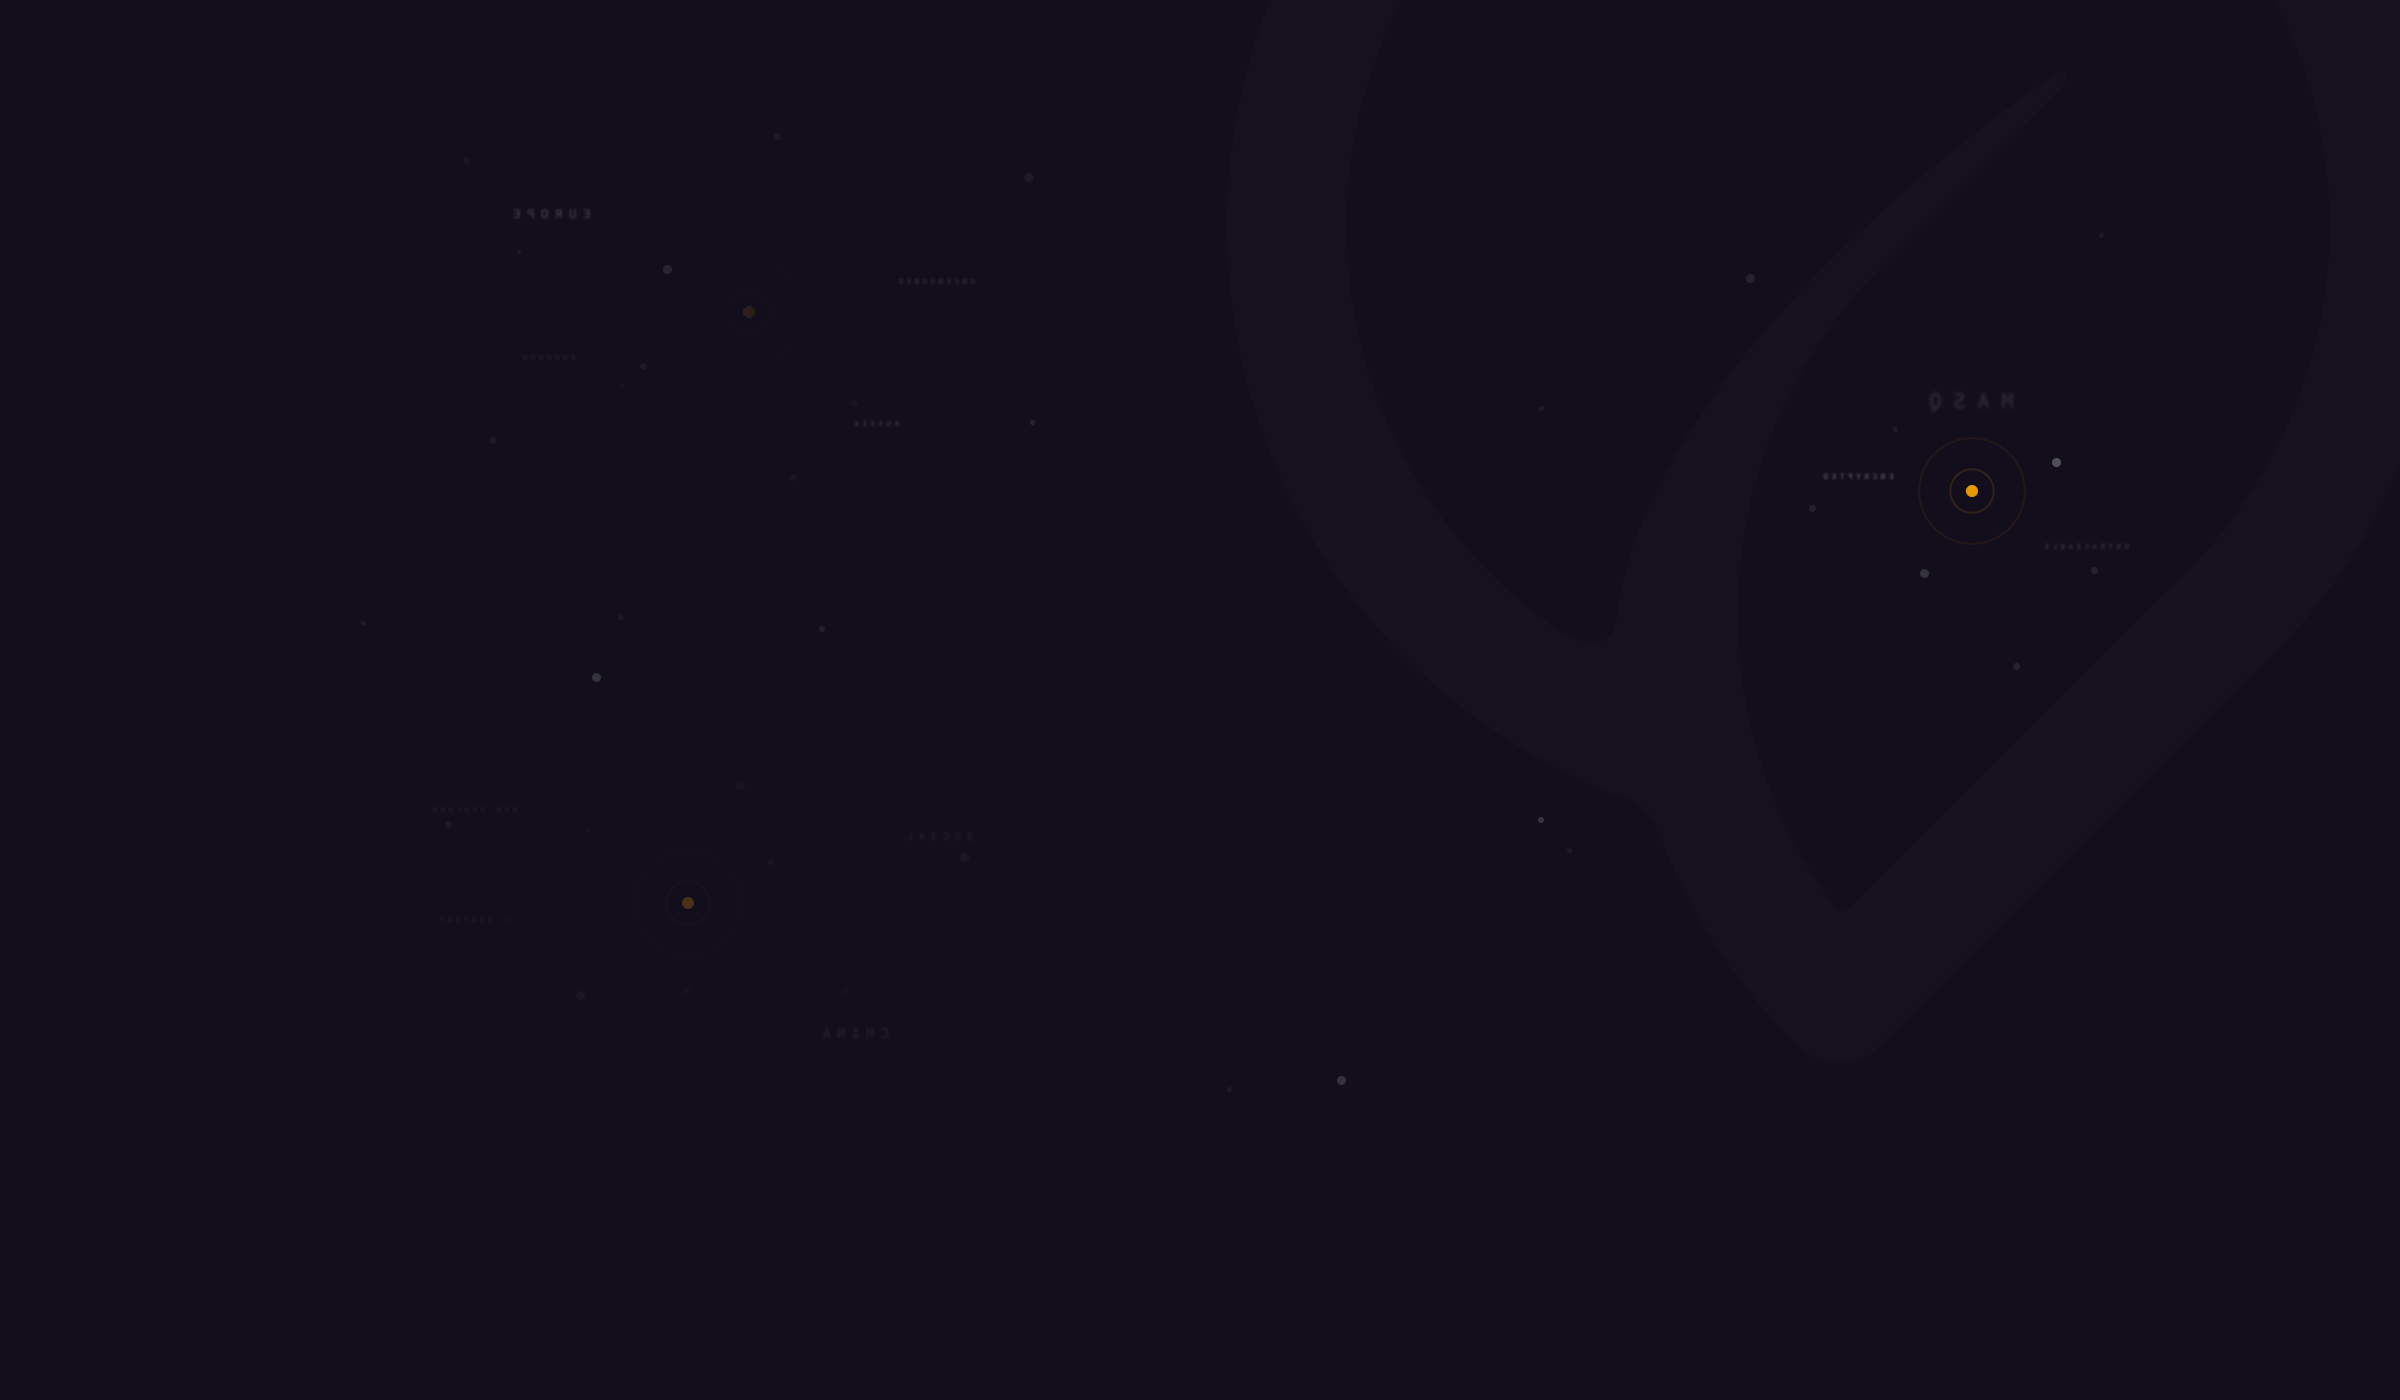
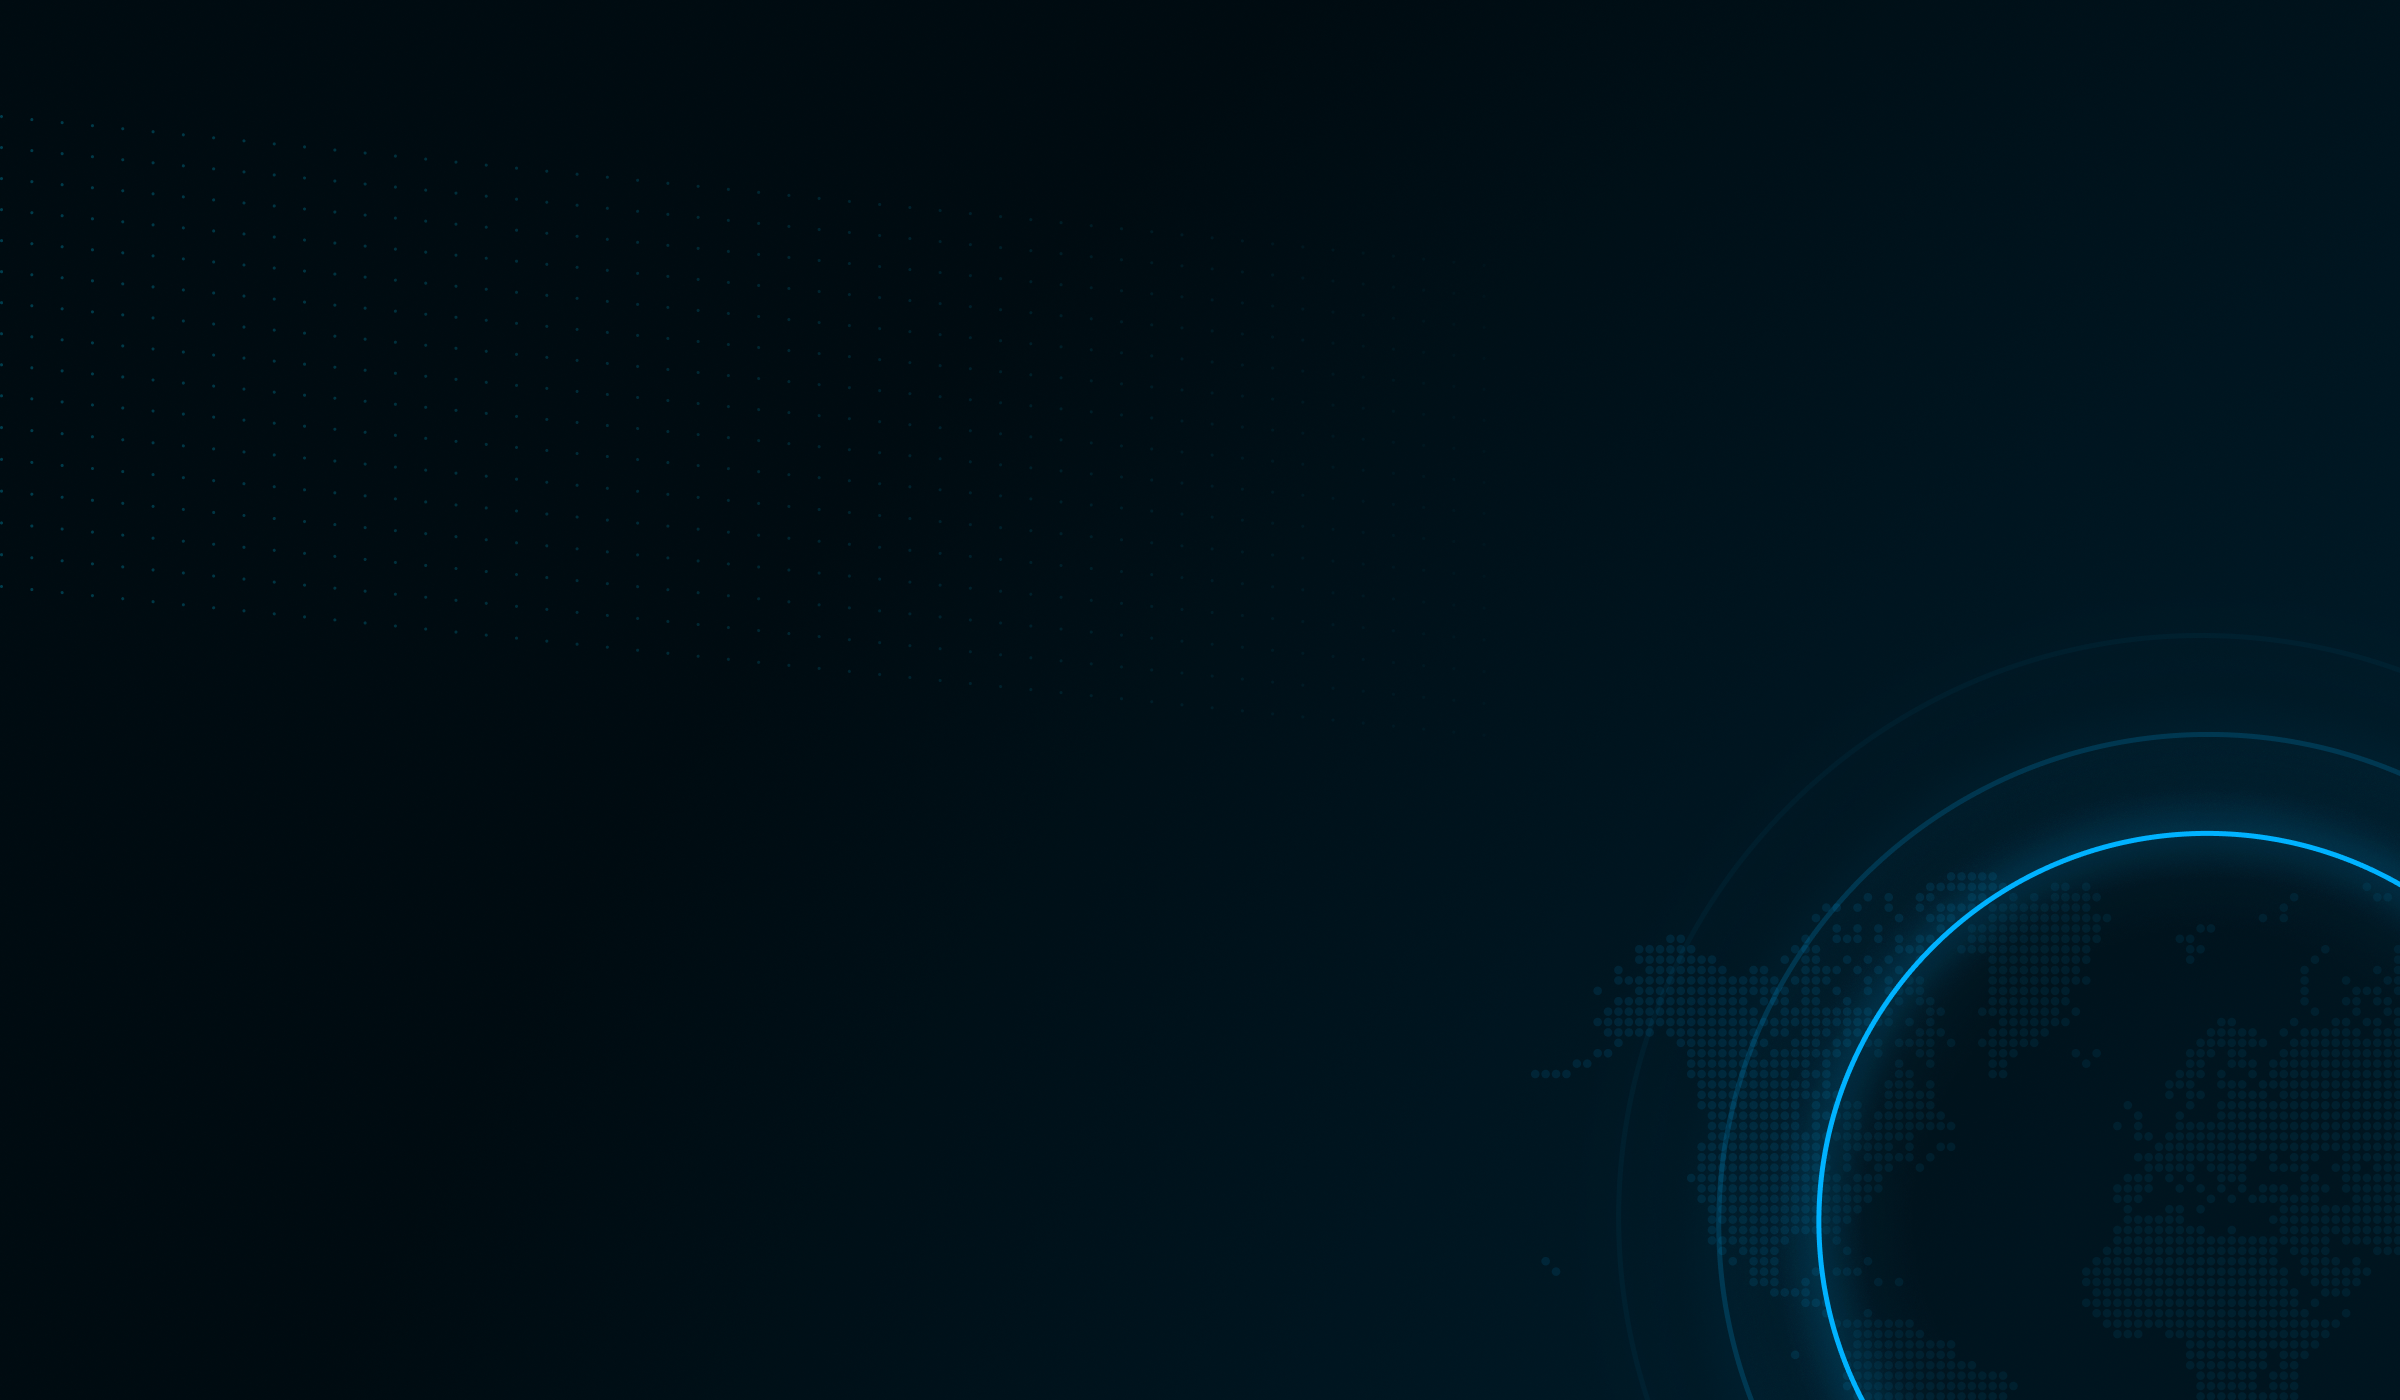
updated masq theme

diff --git a/src/theme/settings/masq.ts b/src/theme/settings/masq.ts
@@ -1,21 +1,21 @@
 export function masqTheme() {
-  const mainColor = '#bc8004'
-  const mainColorHover = '#97661b'
-  const mainButtonColor = '#6526c1'
-  const mainButtonColorHover = '#4f3a87'
-  const appBG = '#0c0812'
-  const bodyBGColor = '#120e1b'
-  const inputBGColor = '#181323'
-  const mainTextColor = '#EFEFEF'
+  const mainColor = '#00B2FF'
+  const mainColorHover = '#00A3FF'
+  const mainButtonColor = '#00B2FF'
+  const mainButtonColorHover = '#00A3FF'
+  const appBG = '#00334D'
+  const bodyBGColor = '#000b11'
+  const inputBGColor = '#000b11'
+  const mainTextColor = '#FAFAFA'
   const mainTextColorHover = '#c2bebc'
   const transparent = 'transparent'
-  const buttonBG = '#181323'
-  const buttonBGHover = '#6526c1'
-  const buttonSecondaryBG = '#260e4e'
-  const modalBG = '#191426'
-  const infoText = '#6526c1'
-  const infoBGHover = '#1b0a38'
-  const highLights = '#d68e20'
+  const buttonBG = '#00B2FF'
+  const buttonBGHover = '#00A3FF'
+  const buttonSecondaryBG = mainColorHover
+  const modalBG = bodyBGColor
+  const infoText = mainButtonColor
+  const infoBGHover = '#8fb8ca'
+  const highLights = '#00E0FF'
 
   return {
     //App
@@ -44,7 +44,7 @@ export function masqTheme() {
     buttonBG: mainColor,
     buttonTextColor: mainTextColor,
     buttonBGHover: mainColorHover,
-    buttonTextColorHover: mainTextColorHover,
+    buttonTextColorHover: mainTextColor,
     buttonBGActive: mainColor,
     buttonTextColorActive: mainTextColor,
     buttonBGActiveHover: mainColor,
@@ -63,15 +63,15 @@ export function masqTheme() {
     buttonSelectTextColorActive: mainTextColor,
     buttonSelectBGActiveHover: mainColor,
     buttonSelectTextColorActiveHover: mainTextColor,
-    buttonSecondaryBG: buttonSecondaryBG,
-    buttonSecondaryBorder: transparent,
-    buttonSecondaryTextColor: mainTextColor,
-    buttonSecondaryBGActive: mainColor,
-    buttonSecondaryBorderActive: mainColor,
-    buttonSecondaryTextColorActive: mainTextColor,
-    buttonSecondaryBGHover: mainColorHover,
+    buttonSecondaryBG: appBG,
+    buttonSecondaryBorder: mainColor,
+    buttonSecondaryTextColor: mainColor,
+    buttonSecondaryBGActive: appBG,
+    buttonSecondaryBorderActive: appBG,
+    buttonSecondaryTextColorActive: mainColor,
+    buttonSecondaryBGHover: appBG,
     buttonSecondaryBorderHover: mainColorHover,
-    buttonSecondaryTextColorHover: mainTextColorHover,
+    buttonSecondaryTextColorHover: mainColorHover,
     buttonOutlinedBorder: mainColor,
     buttonOutlinedTextColor: mainTextColor,
     buttonOutlinedBorderHover: mainColorHover,
@@ -94,7 +94,7 @@ export function masqTheme() {
     linkColorHover: mainColor,
     lineColor: '#5F656D',
     logo:
[2 lines of base64/hex data omitted]
 
     //Header
     headerBG: transparent,
@@ -133,7 +133,7 @@ export function masqTheme() {
     //Text
     textHighlight: highLights,
     textPrimary: mainTextColor,
-    textSecondary: 'rgba(178,178,178,0.5)',
+    textSecondary: '#8fb8ca',
     textTertiary: '#bfbfbf',
     textDisabled: '#565A69',
 

diff --git a/src/components/Gas/index.tsx b/src/components/Gas/index.tsx
@@ -70,14 +70,24 @@ const MenuFlyout = styled.span`
   display: flex;
   flex-direction: column;
   position: absolute;
-  top: 50px;
-  right: 0;
+  top: 30px;
+  right: -2px;
   z-index: 100;
 
   [dir='rtl'] & {
     right: unset;
-    left: 0;
+    left: -2px;
   }
+
+  ${({ theme }) => theme.mediaWidth.upToSmall`
+    top: 50px;
+    right: 0;
+    
+    [dir='rtl'] & {
+      right: unset;
+      left: 0;
+    }
+  `};
 `
 
 export default function GasTab() {
